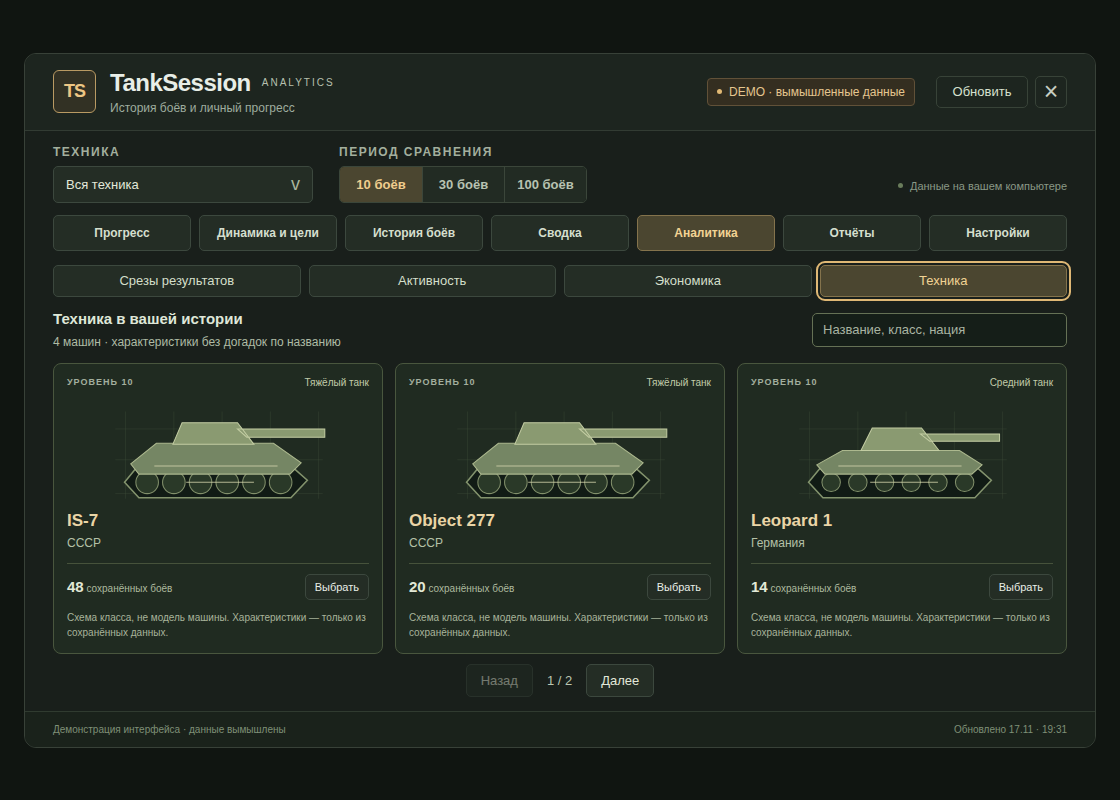
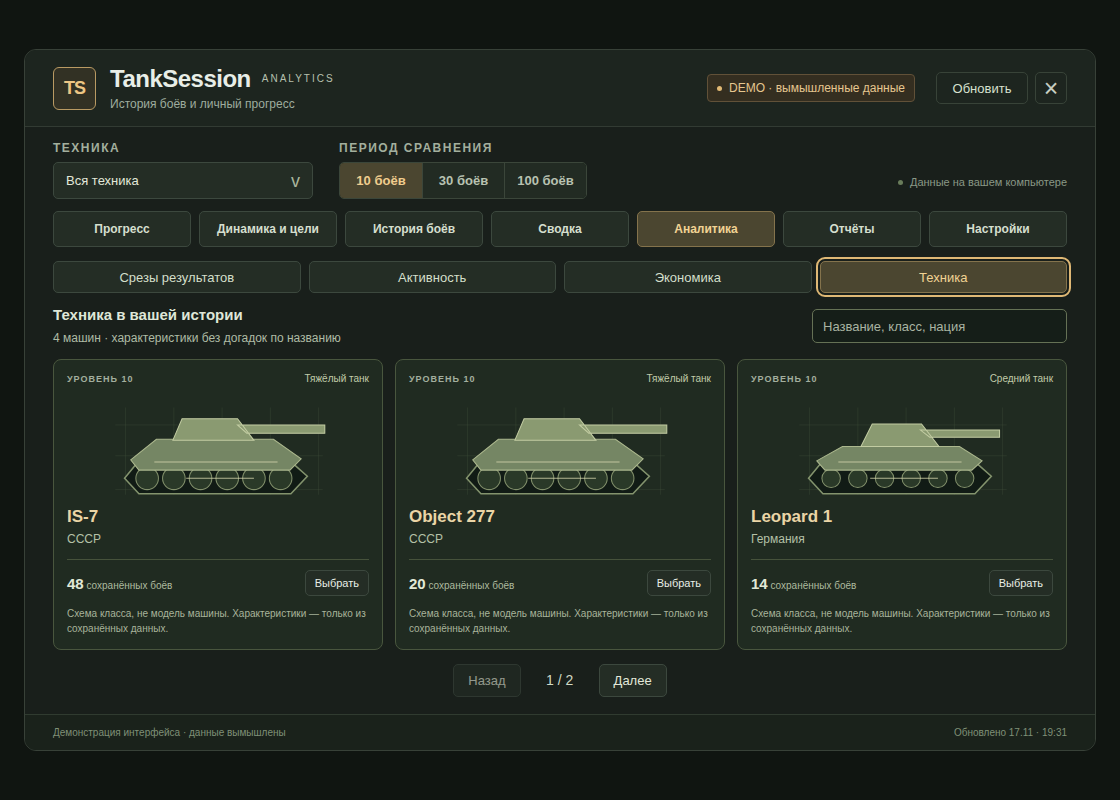
fix: keep recovery read-only in preview and record RC2 visual checks

diff --git a/src/res/scripts/client/gui/mods/tanksession_analytics/workspace.py b/src/res/scripts/client/gui/mods/tanksession_analytics/workspace.py
@@ -161,28 +161,33 @@ def _read_profile_bytes(path):
     return data
 
 
-def _recover_replacement(path, cleanup=False):
-    """A present validated destination wins; an absent one restores rollback.
+def _recover_replacement(path, cleanup=False, read_only=False):
+    """Select the profile path; restore rollback only when writes are allowed.
 
     Only a fully written temporary file is installed at the destination. If
     both names exist, the second rename committed. Never remove the rollback
     while the destination is missing, invalid, linked or unreadable. This
     handles interrupted operations, not simultaneous writers or disk loss.
+    Read-only callers can project a valid rollback without renaming either
+    file or cleaning up recovery copies.
     """
     rollback = path + '.rollback'
     if os.path.islink(path) or os.path.islink(rollback):
         raise IOError('Linked profile replacement is not supported')
     if not os.path.lexists(rollback):
-        return
+        return path
     if not os.path.isfile(rollback):
         raise IOError('Profile rollback is not a regular file')
     if os.path.lexists(path):
         _read_profile_bytes(path)
-        if cleanup:
+        if cleanup and not read_only:
             os.remove(rollback)
     else:
         _read_profile_bytes(rollback)
+        if read_only:
+            return rollback
         os.rename(rollback, path)
+    return path
 
 
 def _replace_recoverable(source, destination):
@@ -257,9 +262,10 @@ def _csv_cell(value):
 
 
 class Workspace(object):
-    def __init__(self, folder, memory=False, log=None):
+    def __init__(self, folder, memory=False, log=None, read_only=False):
         self.folder = os.path.abspath(folder)
         self.memory = memory
+        self.read_only = read_only
         self._profiles = {}
         self._completed = {}
         self._log = log
@@ -314,13 +320,15 @@ class Workspace(object):
         path = self._path(account)
         if os.path.islink(os.path.dirname(path)) or os.path.islink(path):
             raise IOError('Linked UI profile is not supported')
-        _recover_replacement(path)
+        path = _recover_replacement(path, read_only=self.read_only)
         if not os.path.exists(path):
             return {'version': 2, 'preferences': dict(DEFAULT_PREFERENCES), 'goals': None}
         data = _read_profile_bytes(path)
         return self._validate_profile(json.loads(data.decode('utf-8-sig')))
 
     def _save(self, account, profile):
+        if self.read_only:
+            raise IOError('Workspace is read-only')
         clean = self._validate_profile(profile)
         if self.memory:
             self._profiles[self._key(account)] = clean
@@ -348,6 +356,8 @@ class Workspace(object):
                 if 'account_id' not in goal or _verified_account(goal['account_id']) == account]
 
     def _export(self, records, account, vehicle, observed):
+        if self.read_only:
+            raise IOError('Workspace is read-only')
         from .analytics import sort_records
         from .presentation import clean_own_records
         clean, unused = clean_own_records(records, account)
@@ -392,7 +402,7 @@ class Workspace(object):
         if account is None:
             return build_snapshot([], None, request, source=source, now=observed)
         operation = None
-        writable = True
+        writable = not self.read_only
         try:
             profile = self._load(account)
         except (ValueError, IOError, OSError, UnicodeError, TypeError, ImportError) as error:
@@ -436,6 +446,8 @@ class Workspace(object):
             if not any((goal['vehicle'], goal['window']) == original_key for goal in goals):
                 request['goal']['vehicle'] = resolve(request['goal']['vehicle'])
         action = request.get('action')
+        if action in MUTATIONS and self.read_only and operation is None:
+            operation = {'status': 'error', 'code': 'read_only'}
         if action == 'initialize' or (action is None and request['request_id'] == 'initial'):
             request['vehicle'] = profile['preferences']['vehicle']
             request['window'] = profile['preferences']['window']

diff --git a/tests/test_workspace.py b/tests/test_workspace.py
@@ -369,6 +369,50 @@ class WorkspaceTests(unittest.TestCase):
                                           preferences=dict(DEFAULT_PREFERENCES, density='compact')))
             self.assertEqual(retried['workspace']['operation']['code'], 'preferences_saved')
 
+    def test_readonly_workspace_projects_recovery_and_refuses_all_mutations(self):
+        path, previous, unused = self.seed_profile()
+        os.rename(path, path + '.rollback')
+        folder = os.path.dirname(path)
+        before = dict((name, self.read_bytes(os.path.join(folder, name))) for name in os.listdir(folder))
+        self.workspace = Workspace(self.folder, read_only=True)
+        requests = [command('initialize'), command(),
+                    command('save_preferences', preferences=DEFAULT_PREFERENCES),
+                    command('save_goal', goal={'vehicle': 'Tank', 'window': 10, 'target_avg_damage': 1500}),
+                    command('delete_goal', goal={'vehicle': 'Tank', 'window': 10}),
+                    command('export_csv')]
+        for request in requests:
+            result = self.snapshot(request)
+            self.assertEqual(result['status'], 'ready')
+            self.assertEqual(result['summary']['battles'], 1)
+            self.assertEqual(result['workspace']['preferences']['contrast'], 'high')
+            self.assertFalse(result['workspace']['can_edit'])
+            if request.get('action') in module.MUTATIONS:
+                self.assertEqual(result['workspace']['operation']['code'], 'read_only')
+            after = dict((name, self.read_bytes(os.path.join(folder, name))) for name in os.listdir(folder))
+            self.assertEqual(after, before)
+            self.assertFalse(os.path.exists(os.path.join(self.folder, 'exports')))
+        for name in ('battles.jsonl', 'battles.jsonl.pending.jsonl', 'goals.json'):
+            self.assertEqual(self.read_bytes(os.path.join(self.folder, name)), self.original)
+        self.workspace = Workspace(self.folder)
+        self.assertTrue(self.snapshot(command('initialize'))['workspace']['can_edit'])
+        self.assertEqual(self.read_bytes(path), previous)
+        self.assertFalse(os.path.exists(path + '.rollback'))
+
+    def test_readonly_recovery_still_rejects_invalid_and_oversized_profiles(self):
+        path = self.workspace._path('A')
+        os.makedirs(os.path.dirname(path))
+        self.workspace = Workspace(self.folder, read_only=True)
+        for raw in (b'{broken', b'{}', b'x' * (module.MAX_PROFILE_BYTES + 1)):
+            with open(path + '.rollback', 'wb') as stream:
+                stream.write(raw)
+            result = self.snapshot(command('initialize'))
+            self.assertEqual(result['status'], 'ready')
+            self.assertEqual(result['summary']['battles'], 1)
+            self.assertFalse(result['workspace']['can_edit'])
+            self.assertEqual(result['workspace']['operation']['code'], 'read_failed')
+            self.assertFalse(os.path.exists(path))
+            self.assertEqual(self.read_bytes(path + '.rollback'), raw)
+
     def test_stripped_runtime_failed_backup_rollback_preserves_old_backup_for_retry(self):
         path, previous, backup = self.seed_profile()
         with StrippedWindowsRuntime() as runtime:

diff --git a/tests/test_ui_preview.py b/tests/test_ui_preview.py
@@ -105,6 +105,55 @@ class UiPreviewTests(unittest.TestCase):
         self.assertEqual(self.post(request)[0], 403)
         self.assertFalse((Path(self.folder.name) / 'exports').exists())
 
+    def test_readonly_preview_projects_rollback_without_writes_and_opt_in_recovers(self):
+        base = Path(self.folder.name)
+        workspace = preview_module.Workspace(str(base))
+        path = Path(workspace._path('101'))
+        path.parent.mkdir()
+        profile = {'version': 2, 'preferences': {'vehicle': '', 'window': 30, 'tab': 'settings',
+                   'density': 'compact', 'contrast': 'high'}, 'goals': []}
+        raw = (json.dumps(profile) + '\n').encode('utf-8')
+        rollback = path.with_name(path.name + '.rollback')
+        rollback.write_bytes(raw)
+        path.with_name(path.name + '.bak.rollback').write_bytes(raw)
+        (path.parent / '.tsa-interrupted.tmp').write_bytes(b'uncommitted temporary bytes')
+
+        def directory_contents():
+            return {str(entry.relative_to(base)): None if entry.is_dir() else entry.read_bytes()
+                    for entry in base.rglob('*')}
+
+        before = directory_contents()
+        initialize = dict(protocol=1, request_id='readonly-init', vehicle='', window=10,
+                          action='initialize')
+        status, body = self.post(initialize)
+        self.assertEqual(status, 200)
+        initialized = json.loads(body)
+        self.assertEqual(initialized['status'], 'ready')
+        self.assertEqual(initialized['summary']['battles'], 2)
+        self.assertEqual(initialized['workspace']['preferences']['contrast'], 'high')
+        self.assertFalse(initialized['workspace']['can_edit'])
+        self.assertEqual(directory_contents(), before)
+
+        status, _, body = self.get('/api/snapshot?request_id=readonly-get')
+        self.assertEqual(status, 200)
+        refreshed = json.loads(body)
+        self.assertEqual(refreshed['status'], 'ready')
+        self.assertEqual(refreshed['summary']['battles'], 2)
+        self.assertEqual(refreshed['workspace']['preferences']['contrast'], 'high')
+        self.assertFalse(refreshed['workspace']['can_edit'])
+        self.assertEqual(directory_contents(), before)
+
+        self.enable_writes()
+        status, _, body = self.get('/api/snapshot?request_id=writable-get')
+        self.assertEqual(status, 200)
+        recovered = json.loads(body)
+        self.assertTrue(recovered['workspace']['can_edit'])
+        self.assertEqual(recovered['workspace']['preferences']['contrast'], 'high')
+        self.assertEqual(recovered['summary']['battles'], 2)
+        expected = dict(before)
+        expected[str(path.relative_to(base))] = expected.pop(str(rollback.relative_to(base)))
+        self.assertEqual(directory_contents(), expected)
+
     def test_cross_origin_or_form_commands_are_rejected(self):
         request = dict(protocol=1, request_id='init', vehicle='', window=10, action='initialize')
         for headers in ({'Content-Type': 'text/plain'},

diff --git a/tools/preview_ui.py b/tools/preview_ui.py
@@ -57,9 +57,9 @@ def create_ui_server(data_path, account_id, goals=None, demo=False,
     journal = CachedJournal(os.path.abspath(data_path))
     goals = validate_goals([] if goals is None else goals)
     temporary = tempfile.TemporaryDirectory(prefix='tanksession-demo-') if demo else None
-    workspace = Workspace(temporary.name if temporary else os.path.dirname(os.path.abspath(data_path)),
-                          memory=demo)
     writable = demo or allow_write
+    workspace = Workspace(temporary.name if temporary else os.path.dirname(os.path.abspath(data_path)),
+                          memory=demo, read_only=not writable)
 
     class Handler(BaseHTTPRequestHandler):
         def setup(self):

diff --git a/docs/READINESS_2_0_0_RU.md b/docs/READINESS_2_0_0_RU.md
@@ -21,7 +21,7 @@
 
 ## Автоматические проверки RC1
 
-Полный код 2.0 прошёл **все восемь заданий** на коммите `09b03f6002a4b0ef83c541208ec521b95ec35f38`: [push CI 45966051338](https://github.com/xeemoff/tanksession-analytics/actions/runs/45966051338) и [PR CI 45966058912](https://github.com/xeemoff/tanksession-analytics/actions/runs/45966058912). Этот запуск включает окончательный захват шести новых экранов; происхождение PNG записано в [галерее](SCREENSHOTS_RU.md).
+Полный код 2.0 RC1 прошёл **все восемь заданий** на коммите `09b03f6002a4b0ef83c541208ec521b95ec35f38`: [push CI 45966051338](https://github.com/xeemoff/tanksession-analytics/actions/runs/45966051338) и [PR CI 45966058912](https://github.com/xeemoff/tanksession-analytics/actions/runs/45966058912). Этот запуск включает захват шести экранов RC1; их происхождение сохранено в [галерее тега RC1](https://github.com/xeemoff/tanksession-analytics/blob/v2.0.0-rc1/docs/SCREENSHOTS_RU.md).
 
 | Проверка | Фактический результат |
 |---|---|
@@ -47,6 +47,10 @@ RC2 исправляет подтверждённые расхождения RC1
 Добавлены проверки отсутствующего `ctypes`, отказов записи/возврата, настоящего завершения дочернего процесса между переименованиями, повторного открытия, безопасной ошибки Gameface, снимков менеджера, прокрутки/вёрстки и повторных событий XP. Результаты окончательного CI RC2 фиксируются после завершения прогонов; таблица выше относится к RC1.
 
 Первый [прогон RC2 46036673914](https://github.com/xeemoff/tanksession-analytics/actions/runs/46036673914), коммит `ac1aef4cb37bc147caa07c8184dfdc8bd3c4cde0`, прошёл CPython 2.7, UI (60 Node / 24 browser), Linux и C++; Windows Python выявил два отказа офлайн-инструментов. В компактировании сравнивались разные Windows-значения `ctime` у `stat(path)` и `fstat(fd)`: теперь у каждого API собственная исходная сигнатура, проверки изменений и резервирование сохранены. Preview закрывал ранний отказ POST до получения тела: теперь допустимое ограниченное тело дочитывается с общим сроком 10 секунд до отказа, все проверки команды выполняются до мутаций. Добавлены воспроизводящие регрессии; skips и повторные попытки вместо исправлений не вводились.
+
+Повторный [полный CI 46038083441](https://github.com/xeemoff/tanksession-analytics/actions/runs/46038083441) на `88658110693f8864b11715f2225655b85df3baa4` прошёл все восемь заданий. Windows: 497 тестов, 6 платформенных skips; UI: 60 Node и 24 browser. В [галерее](SCREENSHOTS_RU.md) сохранены девять PNG этого запуска, включая три кадра с имитацией игрового транспорта; переходы отключены только при захвате.
+
+Дополнительная проверка обнаружила, что автоматическое восстановление `.rollback` могло переименовывать файл даже в браузерном режиме «только чтение». Workspace получил явный read-only режим: валидная копия читается без rename/cleanup, команды записи и экспорт запрещены; игра сохраняет штатное восстановление. Регрессии сравнивают имена и байты всего каталога до/после реальных HTTP initialize/GET, затем отдельно подтверждают восстановление с `--allow-write`. Окончательный CI после этой правки фиксируется ниже.
 
 ## Игровая приёмка
 

diff --git a/docs/SCREENSHOTS_RU.md b/docs/SCREENSHOTS_RU.md
@@ -1,10 +1,26 @@
 # Галерея TankSession Analytics
 
-Текущий кандидат — **2.0.0-rc1**. Снимки получены из настоящего React-интерфейса в Chromium на вымышленных данных. Они показывают браузерный вид; испытания встроенного Gameface учитываются отдельно в [протоколе](CLIENT_VALIDATION_RU.md).
+Текущий кандидат — **2.0.0-rc2**. Снимки получены из настоящего React-интерфейса в Chromium на вымышленных данных. Они показывают браузерный вид и имитацию игрового транспорта; испытания встроенного Gameface учитываются отдельно в [протоколе](CLIENT_VALIDATION_RU.md).
 
-## Кандидат 2.0.0-rc1
+## Кандидат 2.0.0-rc2
 
-Источник: [успешный push CI 45966051338](https://github.com/xeemoff/tanksession-analytics/actions/runs/45966051338), коммит [`09b03f6002a4b0ef83c541208ec521b95ec35f38`](https://github.com/xeemoff/tanksession-analytics/commit/09b03f6002a4b0ef83c541208ec521b95ec35f38). Все восемь заданий завершились успешно, браузерное задание выполнило **21/21 сценарий**. Шесть PNG размером 1120 × 800 скопированы из артефакта `15182499698` этого запуска без изменения содержимого; захват ожидает завершения запроса и отключает CSS-анимации только в момент снимка.
[1 lines of base64/hex data omitted]
+
+### Проверка режима игрового интерфейса в Chromium
+
+Эти три снимка используют имитацию Gameface API и игровые CSS-классы. Они проверяют расположение элементов и обработку команд в браузере; это не изображения из установленного «Мира танков». Данные вымышленные.
+
+Пять строк истории и отдельная пагинация, читаемые кнопки, постоянное управление прокруткой:
+
+![История в имитации игрового режима](images/hangar-native-compat-history.png)
+
+Карточки техники и горизонтальный счётчик страниц:
+
+![Карточки и счётчик страниц в имитации игрового режима](images/hangar-native-compat-vehicles.png)
+
+Нижняя часть длинного отчёта после прокрутки; footer остаётся доступным:
+
+![Нижняя часть отчёта в имитации игрового режима](images/hangar-native-compat-report-bottom.png)
 
 ### Аналитика по картам и технике
 

diff --git a/CHANGELOG.md b/CHANGELOG.md
@@ -7,6 +7,7 @@
 - Локализованная подпись техники по точному типу без изменения ключа машины.
 - Отдельное проверенное событие дополнительного опыта для конкретного боя; корректировка не создаёт новый бой и не ослабляет обычную защиту от конфликтующих чисел.
 - Windows-проверка выявила и закрыла ложное определение изменения журнала при компактировании (`stat`/`fstat`) и преждевременное закрытие HTTP POST при отказе Preview. Проверки изменений файла, ограничения тела и запрет недопустимых команд сохранены.
+- Режим «только чтение» Preview запрещает и скрытые восстановительные записи: проверенная `.rollback` читается без изменения файлов, фактическое восстановление требует разрешённой записи.
 - Зафиксирована частичная приёмка RC1 на клиенте 1.46.0.0 и подтверждённый SHA-256 установленного пакета. Успех CI и исправление кода не подменяют новую игровую проверку RC2.
 
 [Описание 2.0 RC2](docs/releases/v2.0.0-rc2.md) · [Готовность и проверки](docs/READINESS_2_0_0_RU.md) · [Факты RC1](docs/CLIENT_VALIDATION_RU.md)

diff --git a/README.md b/README.md
@@ -184,9 +184,9 @@ python tools/package_release.py --tag v2.0.0-rc2
 
 ## Интерфейс 2.0
 
-![Аналитика по картам и технике в 2.0.0-rc1](docs/images/hangar-v2-analytics.png)
+![Аналитика по картам и технике в 2.0.0-rc2](docs/images/hangar-v2-analytics.png)
 
-*Настоящий React-интерфейс **2.0.0-rc1** в Chromium на вымышленных данных. Снимки из успешного [CI 45966051338](https://github.com/xeemoff/tanksession-analytics/actions/runs/45966051338), коммит `09b03f6`; PNG сохранены без преобразования. Нативный Gameface проверяется отдельно.*
+*Настоящий React-интерфейс **2.0.0-rc2** в Chromium на вымышленных данных. Снимки из успешного [CI 46038083441](https://github.com/xeemoff/tanksession-analytics/actions/runs/46038083441), коммит `8865811`; PNG сохранены без преобразования. Нативный Gameface проверяется отдельно.*
 
 | Карточки техники | Светлая тема |
 |---|---|
